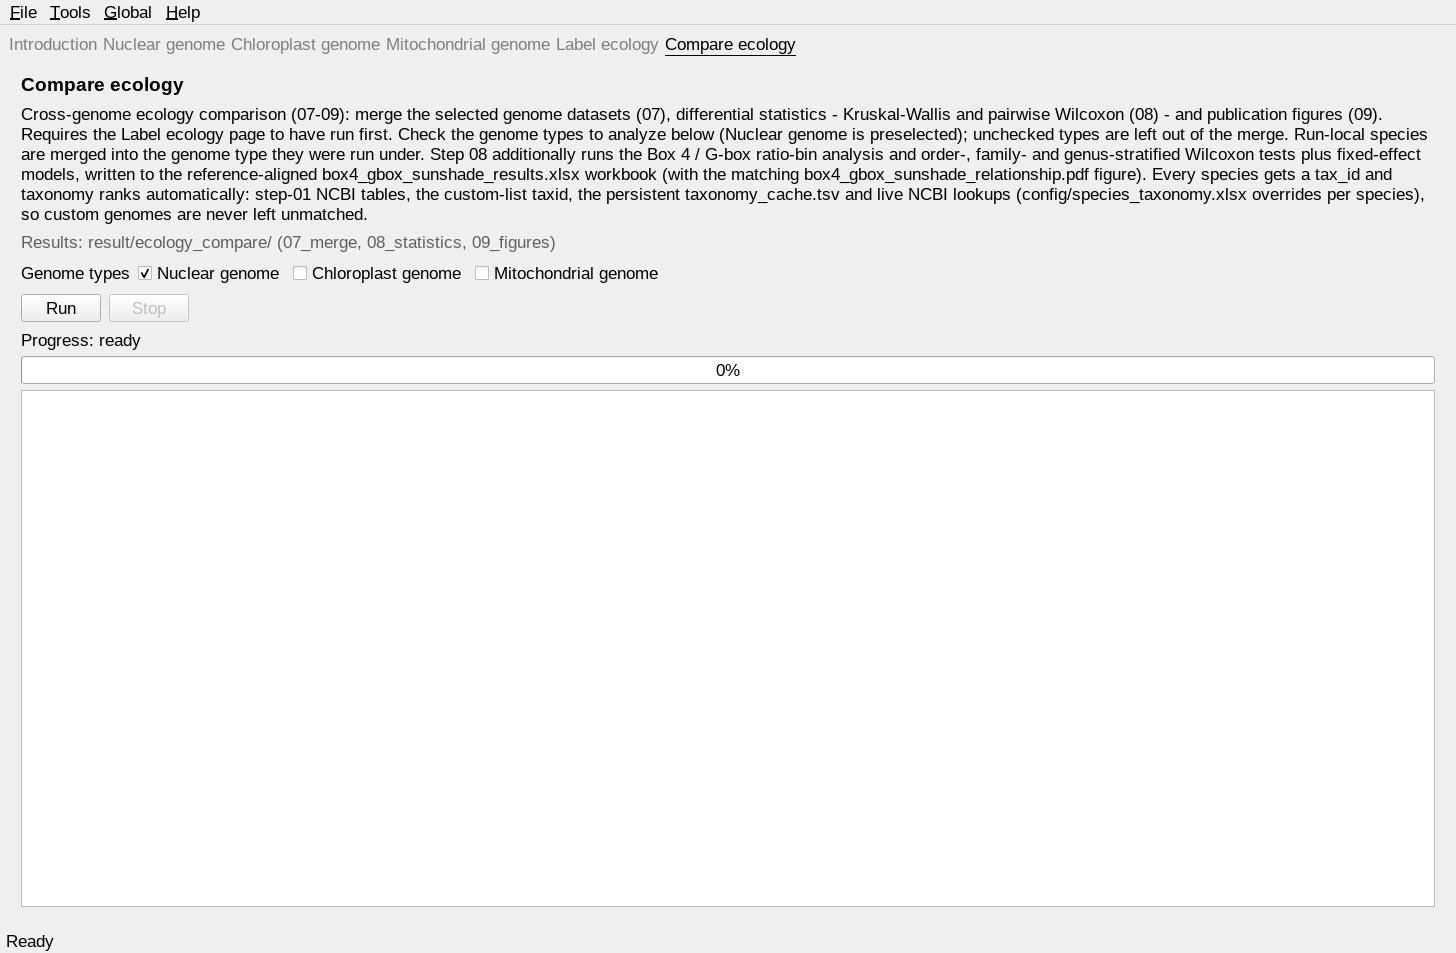
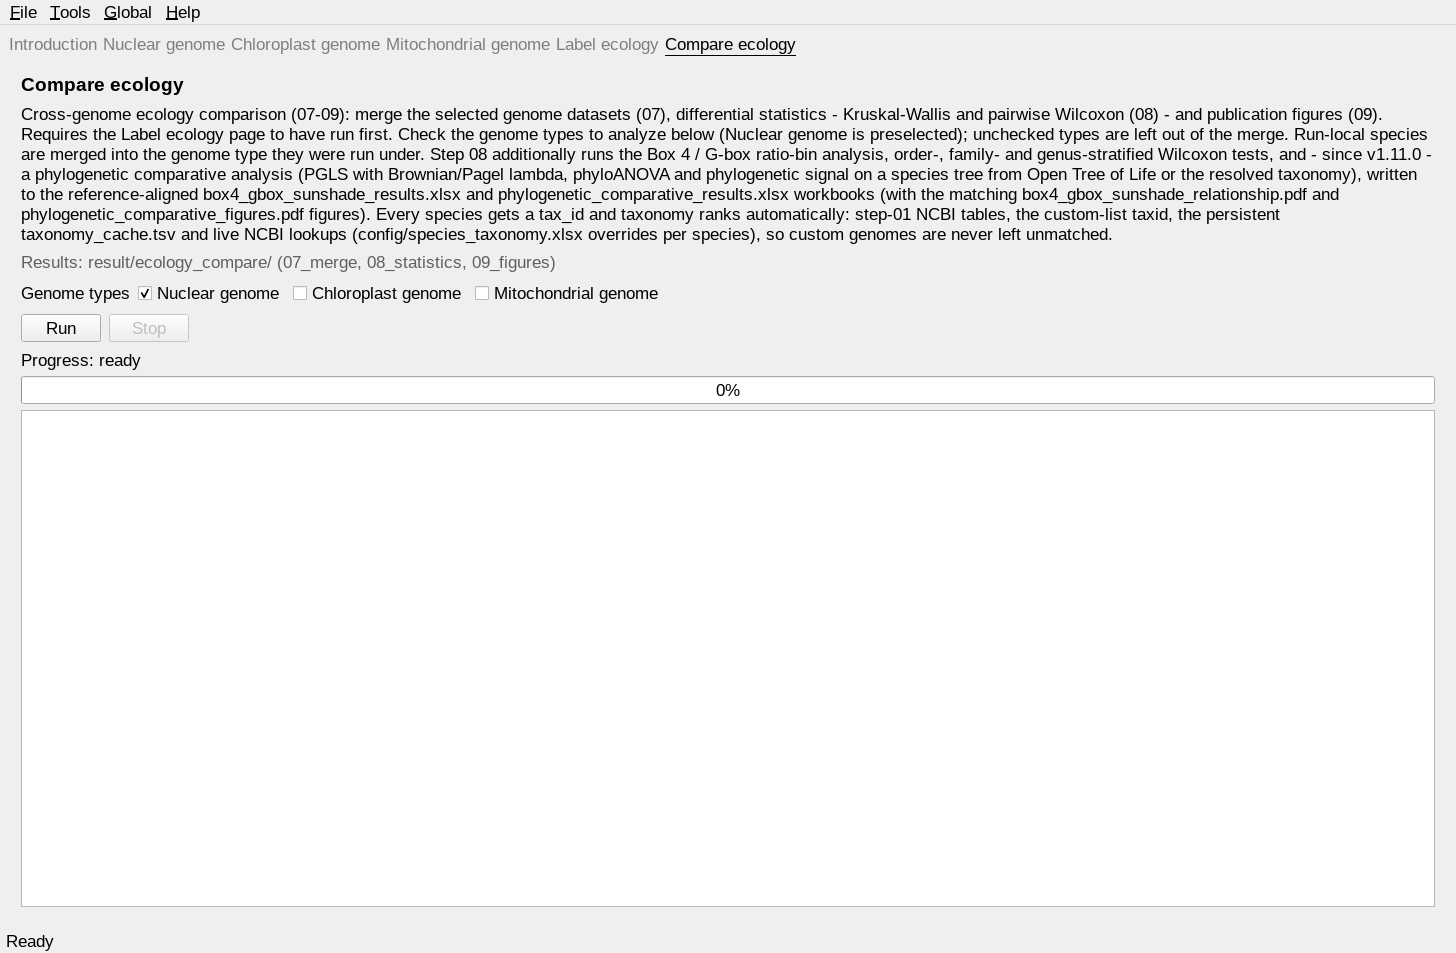
docs: v1.11.0 phylogenetic comparative analysis (PGLS / phyloANOVA)

Changed region(s): [[0.0, 0.1522, 0.989, 0.426]]

diff --git a/docs/conf.py b/docs/conf.py
@@ -9,8 +9,8 @@ author = "sunshadeCisseeker developers"
 copyright = "2026, sunshadeCisseeker developers"
 
 # The short X.Y version and the full release version.
-version = "v1.10.0"
-release = "v1.10.0"
+version = "v1.11.0"
+release = "v1.11.0"
 
 extensions = [
     "sphinx.ext.autosectionlabel",

diff --git a/docs/content/Outputs.rst b/docs/content/Outputs.rst
@@ -51,6 +51,12 @@ Ecology comparison outputs
      - reference-aligned Box 4/G-box × sun/shade workbook (same layout as the in-house chromosome pipeline's ``chromosome_promoter_Box4_Gbox_sunshade_results.xlsx``, one ``genome_type`` column added): ``Species_annotated`` (with ``tax_id`` + ``taxonomy_source``; v1.10.0) / ``Label_summary`` / ``Ratio_bin_by_label`` / ``Ratio_bin_enrichment`` / ``Concentrated_ratio_bins`` / ``Relationship_tests`` / ``Order_stratified_tests`` / ``Family_stratified_tests`` / ``Genus_stratified_tests`` / ``Fixed_effect_models`` / ``Family_summary`` / ``Genus_summary`` / ``Input_audit``. The taxonomy ranks come automatically from each type's ``01_species_info`` workbook (v1.9.0); species step 01 never saw are resolved from the custom-list taxid, the taxonomy cache and live NCBI lookups (v1.10.0); ``config/species_taxonomy.xlsx`` optionally overrides per species
    * - ``result/ecology_compare/08_statistics/taxonomy_cache.tsv`` (v1.10.0)
      - persistent taxid + taxonomy cache (species / tax_id / kingdom / phylum / tax_class / order / family / genus / source / resolved_on); resolved NCBI lookups are written back here and re-read on later runs, so re-runs stay offline and manually fixed rows are honoured
+   * - ``result/ecology_compare/08_statistics/phylogenetic_tree.nwk`` (v1.11.0)
+     - cached species tree (Open Tree of Life when available, otherwise an ultrametric classification tree from order/family/genus)
+   * - ``result/ecology_compare/08_statistics/phylogenetic_comparative_results.xlsx`` (v1.11.0)
+     - phylogenetic comparative results: ``Tree_species`` / ``Phylogenetic_signal`` (Blomberg K, Pagel lambda) / ``PGLS_models`` (OLS vs Brownian vs Pagel-lambda PGLS with AICc; ratio plus the two counts adjusted for log10 promoters) / ``phyloANOVA`` (999 Brownian simulations) / ``Input_audit``
+   * - ``result/ecology_compare/09_figures/phylogenetic_comparative_figures.pdf`` (v1.11.0)
+     - portrait A4 page: (a) tree with habitat-coloured tips, (b) ratio per habitat with phyloANOVA P, (c) PGLS coefficient forest, (d) phylogenetic signal, (e) Box 4 vs G-box count scatter, (f) delta-AICc model comparison
    * - ``result/ecology_compare/08_statistics/box4_gbox_sunshade_species_annotated.tsv`` (v1.8.0)
      - the annotated species table (Box 4 / G-box counts, ratio, ratio bin + sun/shade label + taxonomy ranks) as a flat TSV
    * - ``result/ecology_compare/09_figures/box4_gbox_sunshade_relationship.pdf`` (v1.8.0)

diff --git a/docs/content/Ecology comparison.rst b/docs/content/Ecology comparison.rst
@@ -202,6 +202,44 @@ The matching ``box4_gbox_sunshade_species_annotated.tsv`` and the
 genome type; panels a–h mirror the chromosome figure and panels i/j/k show
 the order- / family- / genus-stratified tested strata) complete the set.
 
+Phylogenetic comparative analysis (v1.11.0)
+~~~~~~~~~~~~~~~~~~~~~~~~~~~~~~~~~~~~~~~~~~~
+
+The order/family/genus fixed-effect models correct taxonomy crudely, so
+step 08 additionally runs proper **phylogenetic comparative methods** for
+the Box 4 / G-box × light-habitat association:
+
+* a species tree — **Open Tree of Life** via ``rotl`` (``tnrs_match_names``
+  on the species binomials → ``tol_induced_subtree``) when installed and
+  online, otherwise an ultrametric **classification tree** built from the
+  resolved order/family/genus ranks; the tree is cached to
+  ``result/ecology_compare/08_statistics/phylogenetic_tree.nwk``;
+* **PGLS** (``nlme::gls`` with ``corBrownian`` and ``corPagel``, lambda
+  estimated by maximum likelihood) versus plain OLS for
+  ``log10(Box4/G-box ratio)``, ``log10(Box 4 count)`` and
+  ``log10(G-box count)`` — the count models adjust for log10 total
+  promoters — with AICc model comparison;
+* **phylogenetic ANOVA** (``phytools::phylANOVA``, 999 Brownian
+  simulations) of the ratio across sun/shade;
+* **phylogenetic signal** (Blomberg K and Pagel lambda with tests) for the
+  ratio and the two counts.
+
+Everything lands in
+``result/ecology_compare/08_statistics/phylogenetic_comparative_results.xlsx``
+(``Tree_species`` / ``Phylogenetic_signal`` / ``PGLS_models`` /
+``phyloANOVA`` / ``Input_audit``) and
+``result/ecology_compare/09_figures/phylogenetic_comparative_figures.pdf``
+(a portrait A4 page: tree with habitat-coloured tips, ratio per habitat
+with the phyloANOVA P, the PGLS coefficient forest, the signal bars, the
+count scatter and the delta-AICc comparison — fixed row heights keep every
+panel complete and non-overlapping).
+
+The block needs the R packages ``ape``, ``nlme`` and ``phytools`` (and
+``rotl`` for the Open Tree of Life route); install them with
+``conda install -c conda-forge r-ape r-nlme r-phytools r-rotl``. Without
+them, with no taxonomy, or with fewer than six in-tree species, the block
+is skipped with a warning and the rest of Compare ecology is unaffected.
+
 Ratio-bin analysis (v1.5.0)
 ~~~~~~~~~~~~~~~~~~~~~~~~~~~
 

diff --git a/docs/content/Changelog.rst b/docs/content/Changelog.rst
@@ -1,6 +1,36 @@
 Changelog
 =========
 
+1.11.0 — phylogenetic comparative analysis (PGLS / phyloANOVA)
+---------------------------------------------------------------
+
+* The crude order/family/genus fixed-effect correction is now accompanied
+  by proper **phylogenetic comparative methods** for the Box 4 / G-box ×
+  light-habitat association. Step 08 builds a species tree — Open Tree of
+  Life via ``rotl`` when installed and online, otherwise an ultrametric
+  classification tree from the resolved order/family/genus ranks — caches
+  it to ``result/ecology_compare/08_statistics/phylogenetic_tree.nwk`` and
+  writes ``phylogenetic_comparative_results.xlsx``:
+  ``Tree_species`` / ``Phylogenetic_signal`` (Blomberg K and Pagel lambda
+  with tests) / ``PGLS_models`` (OLS vs Brownian vs Pagel-lambda PGLS with
+  ML-estimated lambda and AICc for log10(Box4/G-box ratio), log10(Box 4
+  count) and log10(G-box count); the count models adjust for log10 total
+  promoters) / ``phyloANOVA`` (phytools, 999 Brownian simulations) /
+  ``Input_audit``.
+* Step 09 adds ``phylogenetic_comparative_figures.pdf`` — a portrait A4
+  figure with fixed row heights so every panel stays complete and
+  un-overlapped: (a) the species tree with tips coloured by light habitat,
+  (b) ratio per habitat with the phyloANOVA P, (c) the PGLS coefficient
+  forest (sun − shade, 95% CI, three models), (d) phylogenetic signal
+  bars, (e) Box 4 vs G-box count scatter, (f) delta-AICc model comparison.
+* The block degrades gracefully: missing ``ape`` / ``nlme`` / ``phytools``
+  (install with
+  ``conda install -c conda-forge r-ape r-nlme r-phytools`` and optionally
+  ``r-rotl``), no taxonomy, or fewer than 6 in-tree species all skip it
+  with a warning instead of an error. The ecology end-to-end suite now
+  asserts the workbook sheets, the three PGLS models, the phyloANOVA row,
+  the signal table, the cached tree (11 tips) and the A4 figure geometry.
+
 1.10.0 — every species gets a tax_id and taxonomy in Compare ecology
 ---------------------------------------------------------------------
 

diff --git a/docs/content/About sunshadeCisseeker.rst b/docs/content/About sunshadeCisseeker.rst
@@ -4,7 +4,7 @@ About sunshadeCisseeker
 sunshadeCisseeker identifies, annotates and compares promoter
 cis-regulatory elements across sun / shade plants.
 
-The current release is **1.10.0**.
+The current release is **1.11.0**.
 
 Highlights
 ----------
